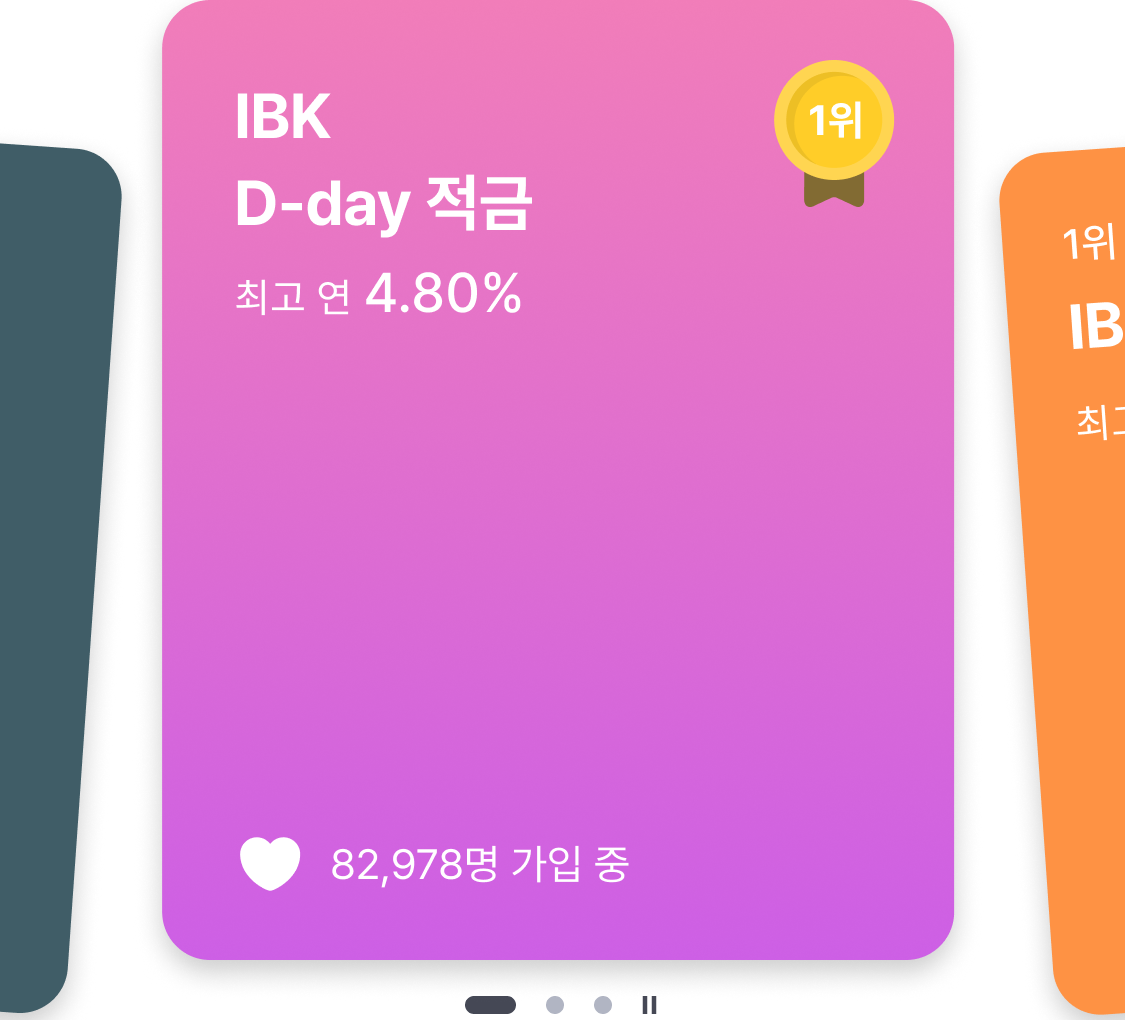
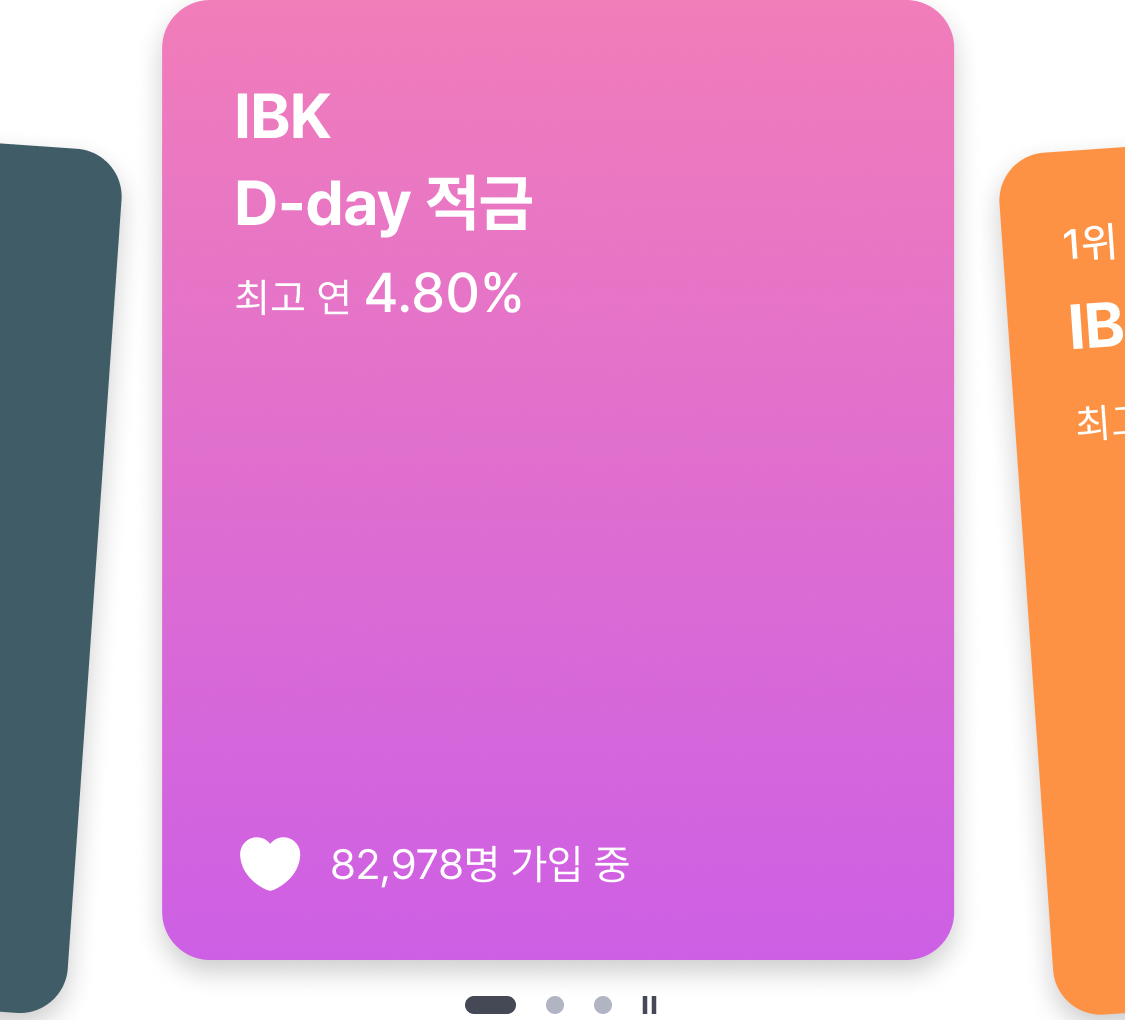
수정

Changed region(s): [[0.6844, 0.0608, 0.8089, 0.2127]]

diff --git a/a-product.html b/a-product.html
@@ -15,7 +15,6 @@
             .alarm_banner{margin:0 auto;padding:20px 0 36px;opacity: 0;transform: translateY(-20px);animation: slideDown 1s ease-out forwards;}
             .content-1{position:relative;}
             .content-2{padding:36px 0 52px;}
-
             @keyframes slideDown {
                 0% {
                     opacity: 0;
@@ -26,7 +25,6 @@
                     transform: translateY(0);
                 }
             }
-
             /* animation */
             .img_bank{position:absolute;top:128.01px;right:47px;width:140px;height:107px;opacity:0;animation:growAndAppear 1s ease-in-out forwards;}
             .img_badge1, 
@@ -38,6 +36,8 @@
             .img_coin2 {opacity: 0;animation: dropIn 0.5s ease-out forwards, floatUpDown 2s ease-in-out infinite;}
             .img_coin1{position:absolute;top:174px;right:177.36px;width:14px;height:15px;animation-delay: 3s, 3.5s;}
             .img_coin2{position:absolute;top:151px;right:169.34px;width:14px;height:12px;animation-delay: 3.3s, 3.8s;}
+            .img_medal{position:absolute;top:16px;right:64.94px;width:64px;height:64px;animation: stampAnimation 1.5s cubic-bezier(0.34, 1.56, 0.64, 1) 3.8s forwards;
+                transform-origin: center;opacity:0;}
             @keyframes growAndAppear {
                 0% {
                     opacity: 0;
@@ -90,6 +90,21 @@
                     transform: translateY(-10px);
                 }
             }
+            @keyframes stampAnimation {
+                0% {
+                    transform: scale(1.5) rotate(-30deg) translateY(-20px);
+                    opacity: 0;
+                    visibility: visible;
+                }
+                60% {
+                    transform: scale(1.1) rotate(0deg) translateY(-5px);
+                    opacity: 1;
+                }
+                100% {
+                    transform: scale(1) rotate(0deg) translateY(0);
+                    opacity: 1;
+                }
+            }
         </style>
         <!-- // css style -->
         
@@ -110,6 +125,7 @@
                     <img src="./images/A/product/ani_img04.png" class="img_piggy">
                     <img src="./images/A/product/ani_img05.png" class="img_coin1">
                     <img src="./images/A/product/ani_img06.png" class="img_coin2">
+                    <img src="./images/A/product/ani_img07.png" class="img_medal">
                 </div>
                 <div class="content-2">
                     <img src="./images/A/product/contents.png" alt="">
